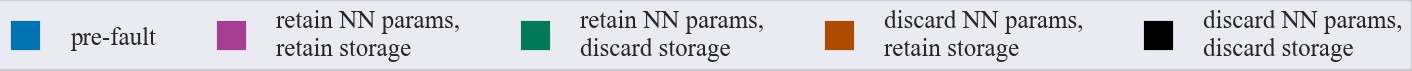
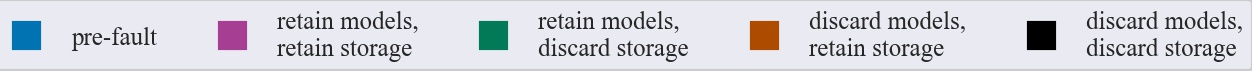
updated legend to include models

diff --git a/plot/paper/plots2.py b/plot/paper/plots2.py
@@ -362,7 +362,7 @@ def legend():
     f = lambda m, c: plt.plot([], [], marker=m, color=c, ls="none")[0]
     palette_colours = ["#0173b2", "#A63F93", "#027957", "#AD4B00", "#000000"]
     handles = [f("s", palette_colours[i]) for i in range(5)]
-    labels = ["pre-fault", "retain NN params,\nretain storage", "retain NN params,\ndiscard storage", "discard NN params,\nretain storage", "discard NN params,\ndiscard storage"]
+    labels = ["pre-fault", "retain models,\nretain storage", "retain models,\ndiscard storage", "discard models,\nretain storage", "discard models,\ndiscard storage"]
     legend = plt.legend(handles, labels, ncol=5, loc=1, framealpha=1, frameon=True, facecolor="inherit", prop={'size': 6})
 
     def export_legend(legend, filename="legend.jpg"):
@@ -384,7 +384,7 @@ def legend2():
     f = lambda m, c: plt.plot([], [], marker=m, color=c, ls="none")[0]
     palette_colours = ["#A63F93", "#027957", "#AD4B00", "#000000"]
     handles = [f("s", palette_colours[i]) for i in range(4)]
-    labels = ["retain NN params,\nretain storage", "retain NN params,\ndiscard storage", "discard NN params,\nretain storage", "discard NN params,\ndiscard storage"]
+    labels = ["retain models,\nretain storage", "retain models,\ndiscard storage", "discard models,\nretain storage", "discard models,\ndiscard storage"]
     legend = plt.legend(handles, labels, ncol=4, loc=1, framealpha=1, frameon=True, facecolor="inherit", prop={'size': 6})
 
     def export_legend(legend, filename="legend2.jpg"):
